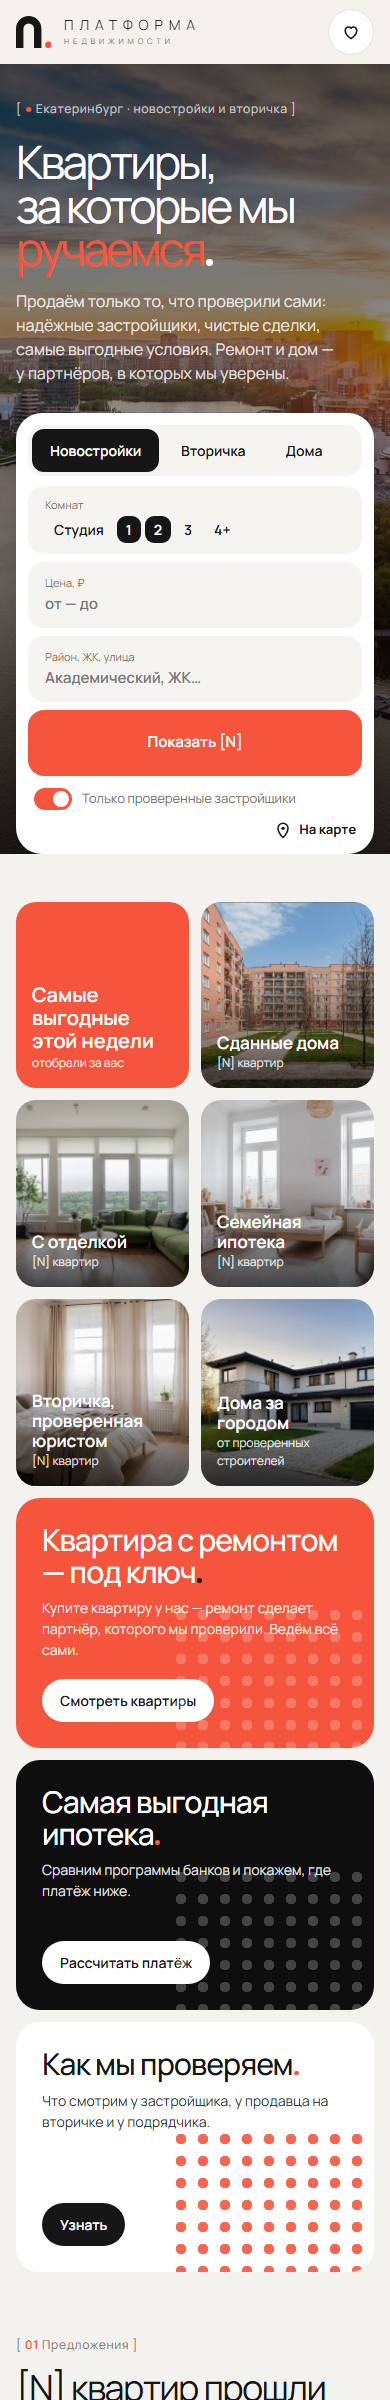
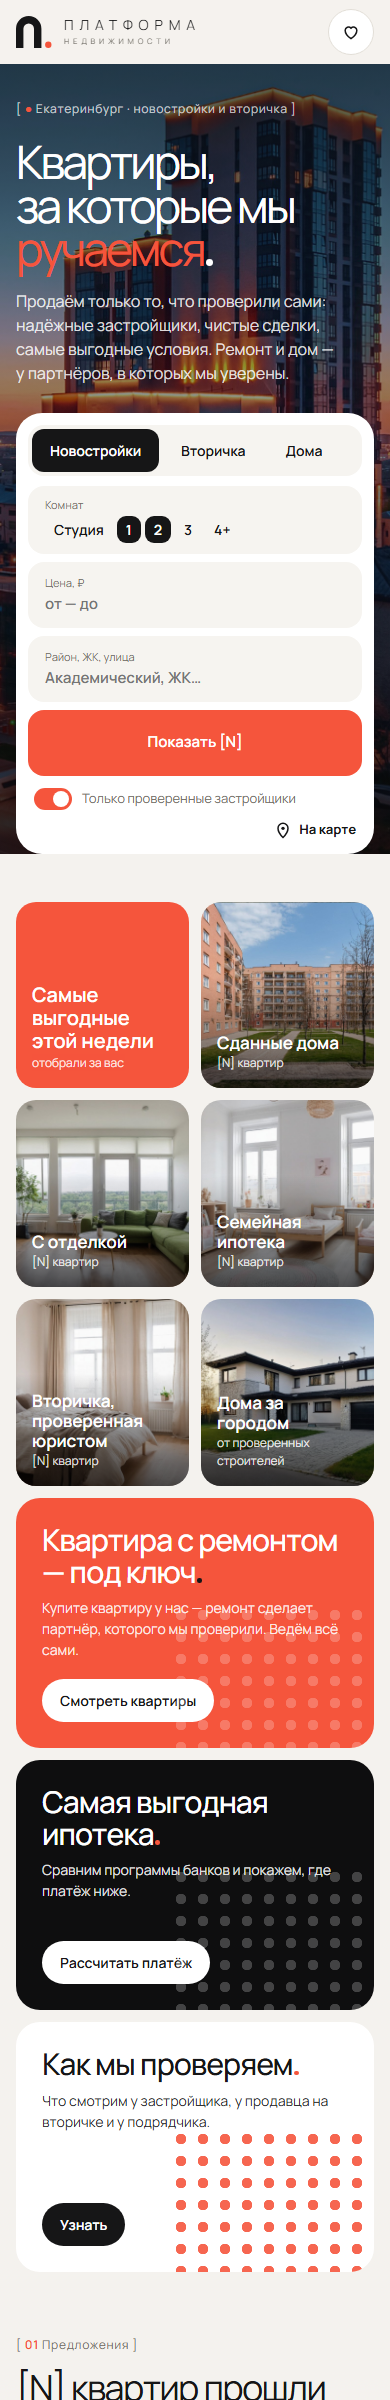
Первый экран сайта: Екатеринбург в сумерках, без чужих вывесок

Changed region(s): [[0.0, 0.0, 1.0, 0.3438]]

diff --git a/08_Сайт_пример/index.html b/08_Сайт_пример/index.html
@@ -38,7 +38,7 @@ nav.main a.on::after{content:'';display:inline-block;width:5px;height:5px;border
 
 /* hero — фото во весь экран */
 .hero{position:relative;min-height:clamp(560px,calc(100vh - 76px),1400px);min-height:clamp(560px,calc(100svh - 76px),1400px);display:flex;color:#fff;overflow:hidden;background:#2a211c}
-.hbg{position:absolute;inset:0;background:url(photo/ekb_city.jpg) 60% 45%/cover;transform:scale(1.02)}
+.hbg{position:absolute;inset:0;background:url(photo/ekb_dusk.jpg) 62% 40%/cover;transform:scale(1.02)}
 .hbg::after{content:'';position:absolute;inset:0;background:linear-gradient(90deg,#0d0a08e6 0%,#0d0a08a8 30%,#0d0a0833 58%,#0000 74%),linear-gradient(0deg,#000a 0%,#0000 38%)}
 .hin{position:relative;z-index:1;width:100%;display:flex;flex-direction:column;justify-content:space-between;gap:48px;padding-top:clamp(40px,8vh,130px);padding-bottom:clamp(24px,4.5vh,64px)}
 .hl{max-width:min(1100px,58vw)}
@@ -224,7 +224,7 @@ footer h4{color:var(--milk);font-size:14px;margin:0 0 12px}footer a{display:bloc
 @media(max-width:800px){
  .w{padding:0 16px}.hero h1{font-size:46px}.hero .sub{font-size:16px;margin-top:18px}h2.t{font-size:36px}.mtext{font-size:28px}
  .hd{gap:12px;height:64px}.tel,.hicon.hide-m{display:none}
- .hero{min-height:0}.hbg{background-position:62% center}.hbg::after{background:linear-gradient(180deg,#0d0a08b3 0%,#0d0a0866 45%,#0d0a08cc 100%)}.hin{padding-top:36px;gap:28px}
+ .hero{min-height:0}.hbg{background-position:72% center}.hbg::after{background:linear-gradient(180deg,#0d0a08b3 0%,#0d0a0866 45%,#0d0a08cc 100%)}.hin{padding-top:36px;gap:28px}
  .sf{grid-template-columns:minmax(0,1fr)}.go{width:100%}
  .cats{grid-template-columns:repeat(2,minmax(0,1fr))}.promo,.mgrid,.pgrid,.calc,.rgrid,.lgrid,.prom,.fgr{grid-template-columns:minmax(0,1fr)}.stats{grid-template-columns:repeat(2,minmax(0,1fr))}
  .card{grid-template-columns:minmax(0,1fr)}.rcol{border-left:0;border-top:1px solid var(--line);padding:12px 0 0}
@@ -259,7 +259,7 @@ footer h4{color:var(--milk);font-size:14px;margin:0 0 12px}footer a{display:bloc
 
 <main>
 <section class="hero" id="search">
-  <div class="hbg" role="img" aria-label="Екатеринбург на закате: Городской пруд и деловой центр"></div>
+  <div class="hbg" role="img" aria-label="Екатеринбург в сумерках: новые жилые дома и стройка"></div>
   <div class="chipv"><h3><i></i>ЖК [НАЗВАНИЕ] — проверен</h3>
     <ul><li><svg><use href="#check"/></svg>Разрешение на строительство</li><li><svg><use href="#check"/></svg>Проектная декларация, эскроу</li><li><svg><use href="#check"/></svg>Прошлые дома сданы в срок</li><li><svg><use href="#check"/></svg>Нет банкротных дел</li></ul></div>
   <div class="w hin">
